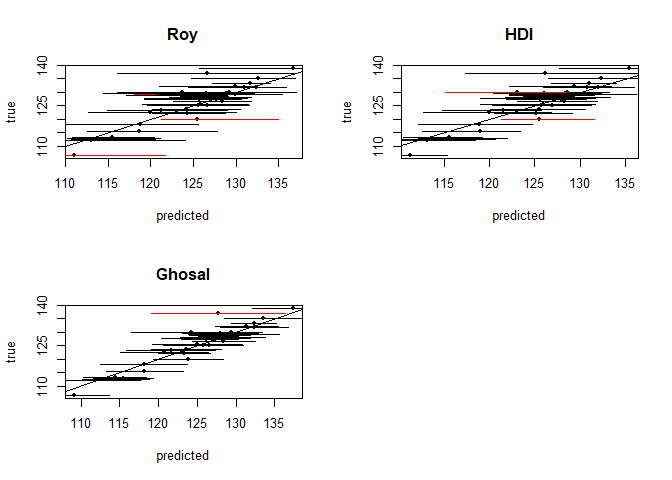
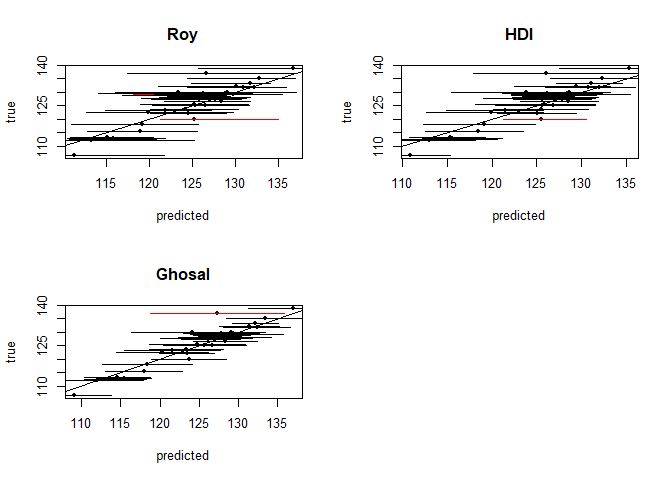
new README.md

diff --git a/README.md b/README.md
@@ -1,0 +1,138 @@
+piRF - Prediction Intervals for Random Forests
+================
+Chancellor Johnstone and Haozhe Zhang
+
+<!-- README.md is generated from README.Rmd. Please edit that file -->
+Introduction
+------------
+
+<!-- badges: start -->
+<!-- badges: end -->
+The goal of *piRF* is to implement multiple state-of-the art random forest prediction interval methodologies in one complete package. Currently, the methods implemented can only be utilized within isolated packages, or the authors have not made a package publicly available. The package itself utilizes the functionality provided by the *ranger* package.
+
+Installation
+------------
+
+You can install the released version of *piRF* from [CRAN](https://CRAN.R-project.org) with:
+
+``` r
+install.packages("piRF")
+```
+
+And the development version from [GitHub](https://github.com/) with:
+
+``` r
+# install.packages("devtools")
+devtools::install_github("chancejohnstone/piRF")
+```
+
+Example
+-------
+
+This is a basic example which utilizes the *airfoil* dataset included with *piRF*. The dataset comes from [UCI Archive](https://archive.ics.uci.edu/ml/datasets/Airfoil+Self-Noise#). The NASA data set comprises different size NACA 0012 airfoils at various wind tunnel speeds and angles of attack.
+
+The follwoing functions are not exported by *piRF* but are used for this example.
+
+``` r
+library(piRF)
+## basic example code
+
+data(airfoil)
+head(airfoil)
+#>   freq AoA length velocity       disp pressure
+#> 1  800   0 0.3048     71.3 0.00266337  126.201
+#> 2 1000   0 0.3048     71.3 0.00266337  125.201
+#> 3 1250   0 0.3048     71.3 0.00266337  125.951
+#> 4 1600   0 0.3048     71.3 0.00266337  127.591
+#> 5 2000   0 0.3048     71.3 0.00266337  127.461
+#> 6 2500   0 0.3048     71.3 0.00266337  125.571
+
+#functions to get average length and average coverage of output
+getPILength <- function(x){
+#average PI length across each set of predictions
+l <- x[,2] - x[,1]
+avg_l <- mean(l)
+return(avg_l)
+}
+
+getCoverage <- function(x, response){
+  #output coverage for test data
+  coverage <- sum((response >= x[,1]) * (response <= x[,2]))/length(response)
+  return(coverage)
+}
+```
+
+Prediction intervals are generated for each of the methods implemented using train and test datasets constructed from the *airfoil* data.
+
+``` r
+method_vec <- c("quantile", "Zhang", "Tung", "Romano", "Roy", "HDI", "Ghosal")
+#generate train and test data
+set.seed(2020)
+ratio <- .975
+nrow <- nrow(airfoil)
+n <- floor(nrow*ratio)
+samp <- sample(1:nrow, size = n)
+train <- airfoil[samp,]
+test <- airfoil[-samp,]
+
+#generate prediction intervals
+res <- rfint(pressure ~ . , train_data = train, test_data = test,
+             method = method_vec,
+             concise= FALSE,
+             num_threads = 2)
+```
+
+In this example, the *num\_threads* option identifies the use of two cores for parallel processing. The default is to use all available cores. The *concise* option allows for the output of predictions for the test observations.
+
+Below are the coverage rates and average prediction interval lengths using the test dataset. Both are important characteristics of prediction intervals.
+
+``` r
+#empirical coverage, and average prediction interval length for each method
+coverage <- sapply(res$int, FUN = getCoverage, response = test$pressure)
+coverage
+#>  quantile     Zhang      Tung    Romano       Roy       HDI    Ghosal 
+#> 0.8947368 0.8947368 0.9210526 0.9210526 0.9473684 0.9473684 0.9736842
+length <- sapply(res$int, FUN = getPILength)
+length
+#>  quantile     Zhang      Tung    Romano       Roy       HDI    Ghosal 
+#> 10.233720  7.035656  7.810820 10.578972 11.789397  9.895526  9.097531
+```
+
+Below are plots of the resulting prediction intervals generated for each method.
+
+``` r
+#plotting intervals and predictions
+par(mfrow = c(2,2))
+for(i in 1:7){
+   col <- ((test$pressure >= res$int[[i]][,1]) *
+   (test$pressure <= res$int[[i]][,2])-1)*(-1)+1
+   plot(x = res$preds[[i]], y = test$pressure, pch = 20,
+      col = "black", ylab = "true", xlab = "predicted", main = method_vec[i])
+   abline(a = 0, b = 1)
+   segments(x0 = res$int[[i]][,1], x1 = res$int[[i]][,2],
+      y1 = test$pressure, y0 = test$pressure, lwd = 1, col = col)
+}
+```
+
+<img src="man/figures/README-unnamed-chunk-4-1.png" width="100%" /><img src="man/figures/README-unnamed-chunk-4-2.png" width="100%" />
+
+If you find any issues with the package, or have suggestions for improvements, please let us know.
+
+References
+----------
+
+Breiman, Leo. 2001. “Random Forests.” *Machine Learning* 45 (1). Springer: 5–32. <https://link.springer.com/article/10.1023/A:1010933404324>.
+
+Ghosal, Indrayudh, and Giles Hooker. 2018. “Boosting Random Forests to Reduce Bias; One-Step Boosted Forest and Its Variance Estimate.” *ArXiv Preprint*. <https://arxiv.org/pdf/1803.08000.pdf>.
+
+Meinshausen, Nicolai. 2006. “Quantile Regression Forests.” *Journal of Machine Learning Research* 7 (Jun): 983–99. <http://www.jmlr.org/papers/volume7/meinshausen06a/meinshausen06a.pdf>.
+
+Romano, Yaniv, Evan Patterson, and Emmanuel Candes. 2019. “Conformalized Quantile Regression.” *ArXiv Preprint*. <https://arxiv.org/pdf/1905.03222v1.pdf>.
+
+Roy, Marie-Hélène, and Denis Larocque. 2019. “Prediction Intervals with Random Forests.” *Statistical Methods in Medical Research*. SAGE Publications Sage UK: London, England. <https://doi.org/10.1177/0962280219829885>.
+
+Tung, Nguyen Thanh, Joshua Zhexue Huang, Thuy Thi Nguyen, and Imran Khan. 2014. “Bias-Corrected Quantile Regression Forests for High-Dimensional Data.” In *2014 International Conference on Machine Learning and Cybernetics*, 1:1–6. IEEE. <https://link.springer.com/article/10.1007/s10994-014-5452-1>.
+
+Zhang, Haozhe, Joshua Zimmerman, Dan Nettleton, and Daniel J. Nordman. 2019. “Random Forest Prediction Intervals.” *The American Statistician*. Taylor & Francis, 1–15. <https://doi.org/10.1080/00031305.2019.1585288>.
+
+Zhu, Lin, Jiaxin Lu, and Yihong Chen. 2019. “HDI-Forest: Highest Density Interval Regression Forest.” *ArXiv Preprint*. <https://arxiv.org/pdf/1905.10101.pdf>.
